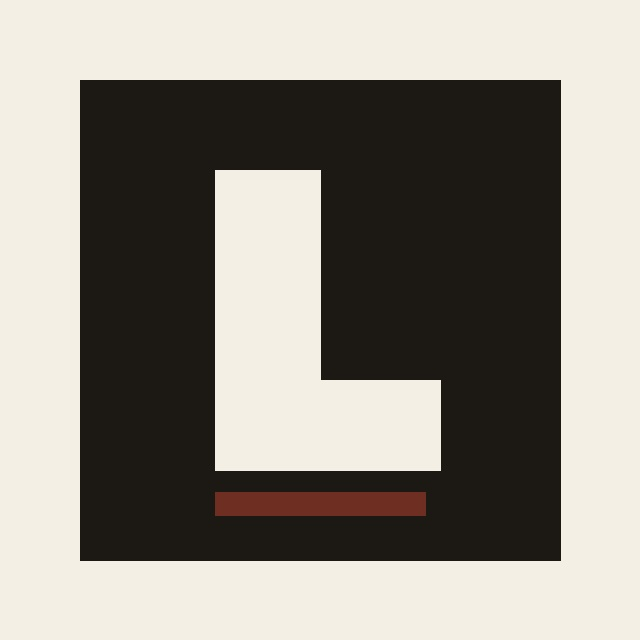
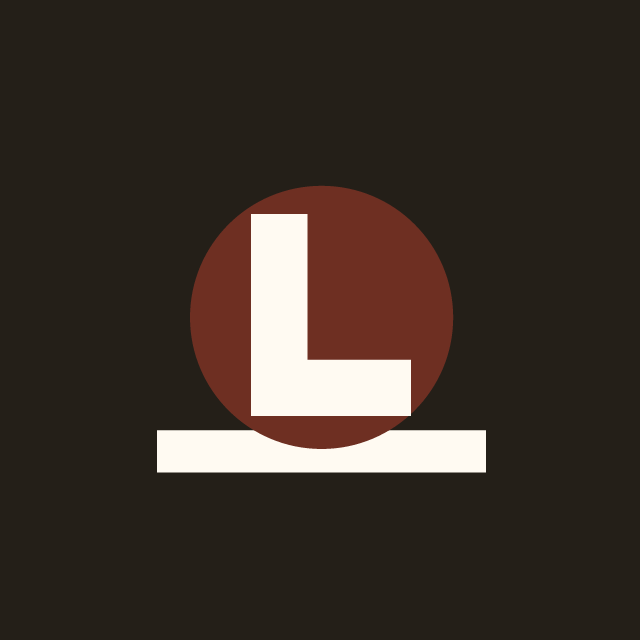
Add the desk seal mark and fix the Today board
Logo: replace the placeholder wordmark with an official-seal mark (rust
disc, block L over an ink rule) across the header, learn byline, OG cards,
channel avatar, and default OG image. Simplified paper-L tile for the
favicon, which must still read at 16px.

Today board: allBriefs.slice(0, MAX_BRIEFS) ignored the desk date, so a
quiet morning led with yesterday's briefs. Lead with today's filed briefs
and backfill the most recent earlier ones, so Today always means today.

Nav: no page marked itself current. shell() now emits aria-current=page
on the matching link, with an accent underline.

diff --git a/scripts/desk/house.css b/scripts/desk/house.css
@@ -17,11 +17,15 @@ p{text-wrap:pretty}
 .wrap{max-width:64rem;margin:0 auto;padding:0 1rem;min-height:100vh;display:flex;flex-direction:column}
 header{display:flex;justify-content:space-between;align-items:center;gap:.75rem;flex-wrap:wrap;border-bottom:1px solid var(--rule);padding:1rem 0}
 footer{display:flex;flex-wrap:wrap;justify-content:space-between;gap:1rem;border-top:1px solid var(--rule);margin-top:auto;padding:1.5rem 0;color:var(--muted);font-size:.92rem}
-.brand{display:flex;align-items:baseline;gap:.65rem;text-decoration:none;font-family:Fraunces,Georgia,serif;font-size:1.7rem;font-weight:600;letter-spacing:-.03em}
+.brand{display:flex;align-items:center;gap:.65rem;text-decoration:none;font-family:Fraunces,Georgia,serif;font-size:1.7rem;font-weight:600;letter-spacing:-.03em}
+.brand-mark{flex:0 0 auto;display:block;line-height:0}
+.brand-mark svg{display:block;border-radius:3px}
 .desk{font-family:"Source Sans 3",sans-serif;font-size:.72rem;font-weight:600;letter-spacing:.12em;text-transform:uppercase;color:var(--muted)}
 nav{display:flex;flex-wrap:wrap;justify-content:flex-end;gap:.35rem 1rem;font-size:.92rem;color:var(--muted)}
 nav a{text-decoration:none;min-height:44px;display:inline-flex;align-items:center}
 nav a:hover{color:var(--ink)}
+nav a[aria-current=page]{color:var(--ink);font-weight:600;position:relative}
+nav a[aria-current=page]::after{content:"";position:absolute;left:0;right:0;bottom:.35rem;height:2px;background:var(--accent)}
 .hero{display:grid;gap:2.2rem;border-bottom:1px solid var(--rule);padding:2.6rem 0 2.4rem}
 @media(min-width:860px){.hero{grid-template-columns:1.15fr .85fr;align-items:end}.markrow{grid-column:1/-1}}
 .hero h1{font-size:clamp(2.6rem,7vw,4.1rem);line-height:.95;margin:0}
@@ -141,8 +145,10 @@ a.row[hidden],article.row[hidden]{display:none}
 .g-head .dek{font-size:1.12rem;line-height:1.6;margin:1rem 0 0;max-width:41rem}
 .g-byline{display:flex;align-items:center;gap:.65rem;margin-top:1.6rem;padding-top:1.2rem;border-top:1px solid var(--rule);font-size:.84rem;color:var(--muted)}
 .g-byline b{color:var(--ink);font-weight:600}
-/* The desk mark, drawn in CSS: dark square, cream L, accent bar. */
-.g-mark{flex:none;width:2.1rem;height:2.1rem;background:var(--ink);color:var(--paper);display:grid;place-items:center;font-family:Fraunces,Georgia,serif;font-weight:600;font-size:1.05rem;line-height:1;border-bottom:2px solid var(--accent)}
+/* The desk mark: an official seal (rust disc, block L) stamped over an ink
+   rule, drawn inline as SVG. */
+.g-mark{flex:none;width:2.1rem;height:2.1rem;display:grid;place-items:center;line-height:0}
+.g-mark svg{display:block;border-radius:3px}
 /* Chips */
 .g-kind{display:inline-flex;align-items:center;min-height:24px;padding:0 .55rem;border:1px solid var(--accent);color:var(--accent);font-size:.66rem;letter-spacing:.12em;text-transform:uppercase;font-weight:600;background:transparent}
 .g-level{display:inline-flex;align-items:center;min-height:24px;padding:0 .55rem;border:1px solid var(--rule);color:var(--muted);font-size:.66rem;letter-spacing:.12em;text-transform:uppercase;font-weight:600}
